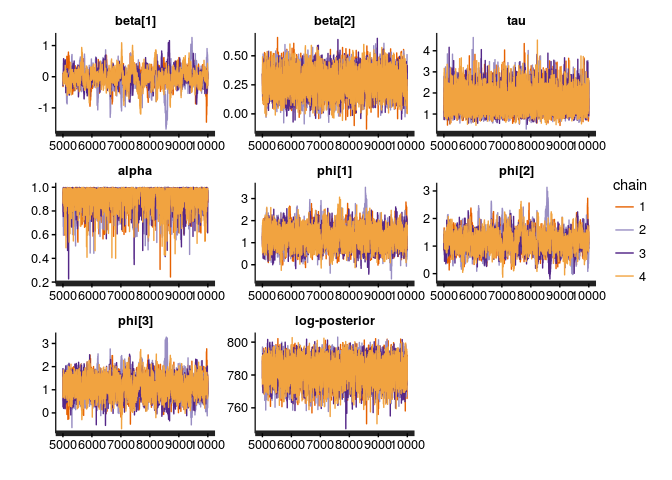
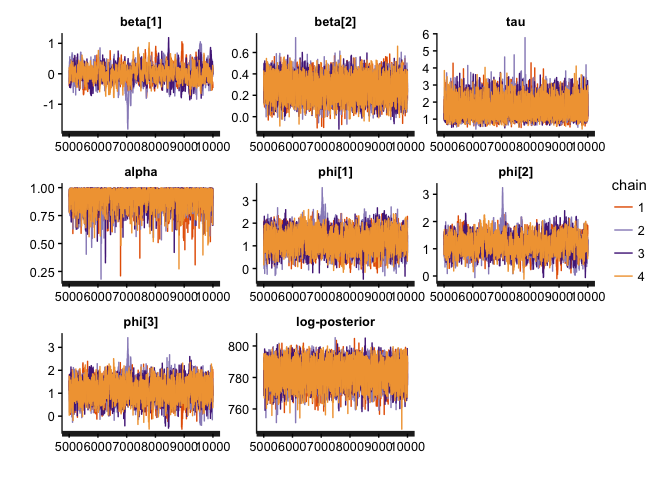
Fixed the intrinsic model to make the dimension of the prior correct

diff --git a/README.md b/README.md
@@ -55,6 +55,16 @@ To demonstrate this approach we'll use the Scottish lip cancer data example (som
 This data set includes observed lip cancer case counts at 56 spatial units in Scotland, with an expected number of cases to be used as an offset, and an area-specific continuous covariate that represents the proportion of the population employed in agriculture, fishing, or forestry.
 The model structure is identical to the Poisson model outlined above. 
 
+
+```
+## Warning in gpclibPermit(): support for gpclib will be withdrawn from
+## maptools at the next major release
+```
+
+```
+## [1] TRUE
+```
+
 ![](README_files/figure-html/unnamed-chunk-1-1.png)<!-- -->
 
 Let's start by loading packages and data, specifying the number of MCMC iterations and chains.
@@ -146,13 +156,13 @@ print(full_fit, pars = c('beta', 'tau', 'alpha', 'lp__'))
 ## post-warmup draws per chain=5000, total post-warmup draws=20000.
 ## 
 ##           mean se_mean   sd   2.5%    25%    50%    75%  97.5% n_eff Rhat
-## beta[1]   0.00    0.02 0.33  -0.61  -0.16   0.00   0.16   0.71   255 1.02
-## beta[2]   0.27    0.00 0.10   0.08   0.21   0.27   0.33   0.45  4098 1.00
-## tau       1.63    0.01 0.49   0.84   1.27   1.56   1.91   2.77  5523 1.00
-## alpha     0.93    0.00 0.06   0.76   0.91   0.95   0.98   1.00  2563 1.00
-## lp__    820.66    0.11 6.76 806.25 816.28 821.05 825.39 832.84  3589 1.00
+## beta[1]  -0.04    0.02 0.29  -0.69  -0.18  -0.02   0.13   0.46   223 1.02
+## beta[2]   0.27    0.00 0.09   0.08   0.21   0.27   0.33   0.46  3611 1.00
+## tau       1.64    0.01 0.50   0.85   1.28   1.58   1.92   2.80  5656 1.00
+## alpha     0.93    0.00 0.06   0.77   0.91   0.95   0.97   1.00  2233 1.00
+## lp__    820.81    0.10 6.74 806.61 816.44 821.17 825.52 832.94  4373 1.00
 ## 
-## Samples were drawn using NUTS(diag_e) at Sun Sep  4 22:55:53 2016.
+## Samples were drawn using NUTS(diag_e) at Mon Sep 19 21:20:06 2016.
 ## For each parameter, n_eff is a crude measure of effective sample size,
 ## and Rhat is the potential scale reduction factor on split chains (at 
 ## convergence, Rhat=1).
@@ -322,13 +332,13 @@ print(sp_fit, pars = c('beta', 'tau', 'alpha', 'lp__'))
 ## post-warmup draws per chain=5000, total post-warmup draws=20000.
 ## 
 ##           mean se_mean   sd   2.5%    25%    50%    75%  97.5% n_eff Rhat
-## beta[1]  -0.02    0.02 0.29  -0.62  -0.17  -0.01   0.14   0.56   340 1.01
-## beta[2]   0.27    0.00 0.10   0.08   0.21   0.28   0.34   0.46  4024 1.00
-## tau       1.63    0.01 0.50   0.84   1.27   1.57   1.92   2.77  6327 1.00
-## alpha     0.93    0.00 0.07   0.76   0.91   0.95   0.97   0.99  2918 1.00
-## lp__    782.80    0.10 6.65 768.82 778.53 783.10 787.40 794.90  4894 1.00
+## beta[1]   0.00    0.01 0.27  -0.52  -0.16   0.00   0.16   0.55   396 1.01
+## beta[2]   0.27    0.00 0.09   0.08   0.21   0.27   0.34   0.46  4342 1.00
+## tau       1.63    0.01 0.49   0.86   1.28   1.57   1.92   2.77  6771 1.00
+## alpha     0.93    0.00 0.06   0.76   0.91   0.95   0.97   0.99  4457 1.00
+## lp__    782.91    0.09 6.71 768.87 778.55 783.27 787.63 794.93  5210 1.00
 ## 
-## Samples were drawn using NUTS(diag_e) at Sun Sep  4 22:56:12 2016.
+## Samples were drawn using NUTS(diag_e) at Mon Sep 19 21:20:24 2016.
 ## For each parameter, n_eff is a crude measure of effective sample size,
 ## and Rhat is the potential scale reduction factor on split chains (at 
 ## convergence, Rhat=1).
@@ -348,8 +358,8 @@ Sparsity gives us an order of magnitude or so gains, mostly via reductions in ru
 
 Model     Number of effective samples   Elapsed time (sec)   Effective samples / sec)
 -------  ----------------------------  -------------------  -------------------------
-full                         3588.896            460.45975                   7.794159
-sparse                       4893.738             40.44543                 120.996046
+full                         4372.790            327.32568                   13.35914
+sparse                       5210.235             24.91367                  209.13157
 
 ### Posterior distribution comparison
 
@@ -367,18 +377,22 @@ The two approaches give the same answers (more or less, with small differences a
 ## Postscript: sparse IAR specification
 
 Although the IAR prior for $\phi$ that results from $\alpha = 1$ is improper, it remains popular (Besag, York, and Mollie, 1991). 
-In practice, these models are typically fit with a sum to zero constraint: $\sum_{i = 1}^n \phi_i = 0$.
+In practice, these models are typically fit with a sum to zero constraints: $\sum_{i\text{ in connected coponent}} \phi_i = 0$ for each connected component of the graph. This allows us to interpret both the overall mean and the component-wise means.
+
 With $\alpha$ fixed to one, we have: 
 
-$$\log(p(\phi \mid \tau)) = - \frac{n}{2} \log(2 \pi) + \frac{1}{2} \log(\text{det}(\tau (D - W))) - \frac{1}{2} \phi^T \tau (D - W) \phi$$
+$$\log(p(\phi \mid \tau)) = - \frac{n}{2} \log(2 \pi) + \frac{1}{2} \log(\text{det}^*(\tau (D - W))) - \frac{1}{2} \phi^T \tau (D - W) \phi$$
 
-$$ = - \frac{n}{2} \log(2 \pi) + \frac{1}{2} \log(\tau^n \text{det}(D - W)) - \frac{1}{2} \phi^T \tau (D - W) \phi$$
+$$ = - \frac{n}{2} \log(2 \pi) + \frac{1}{2} \log(\tau^{n-k} \text{det}^*(D - W)) - \frac{1}{2} \phi^T \tau (D - W) \phi$$
 
-$$ = - \frac{n}{2} \log(2 \pi) + \frac{1}{2} \log(\tau^n) + \frac{1}{2} \log(\text{det}(D - W)) - \frac{1}{2} \phi^T \tau (D - W) \phi$$
+$$ = - \frac{n}{2} \log(2 \pi) + \frac{1}{2} \log(\tau^{n-k}) + \frac{1}{2} \log(\text{det}^*(D - W)) - \frac{1}{2} \phi^T \tau (D - W) \phi$$
+
+Here $\text{det}^*(A)$ is the generalized determinant of the square matrix $A$ defined as the product of its non-zero eigenvalues, and $k$ is the number of connected components in the graph. For the Scottish Lip Cancer data, there is only one connected component and $k=1$.  The reason that we need to use the generalized determinant is that the precision matrix is, by definition, singular in intrinsic models as the support of the Gaussian distribution is on a subspace with fewer than $n$ dimensions.  For the classical ICAR(1) model, we know that the directions correpsonding to the zero eigenvalues are exactly the vectors that are constant on each connected component of the graph and hence $k$ is the number of connected components.
+
 
 Dropping additive constants, the quantity to increment becomes: 
 
-$$ \frac{1}{2} \log(\tau^n) - \frac{1}{2} \phi^T \tau (D - W) \phi$$
+$$ \frac{1}{2} \log(\tau^{n-k}) - \frac{1}{2} \phi^T \tau (D - W) \phi$$
 
 And the corresponding Stan syntax would be:
 
@@ -412,7 +426,7 @@ functions {
         phit_W[W_sparse[i, 2]] = phit_W[W_sparse[i, 2]] + phi[W_sparse[i, 1]];
       }
     
-      return 0.5 * (n * log(tau)
+      return 0.5 * ((n-1) * log(tau)
                     - tau * (phit_D * phi - (phit_W * phi)));
   }
 }
